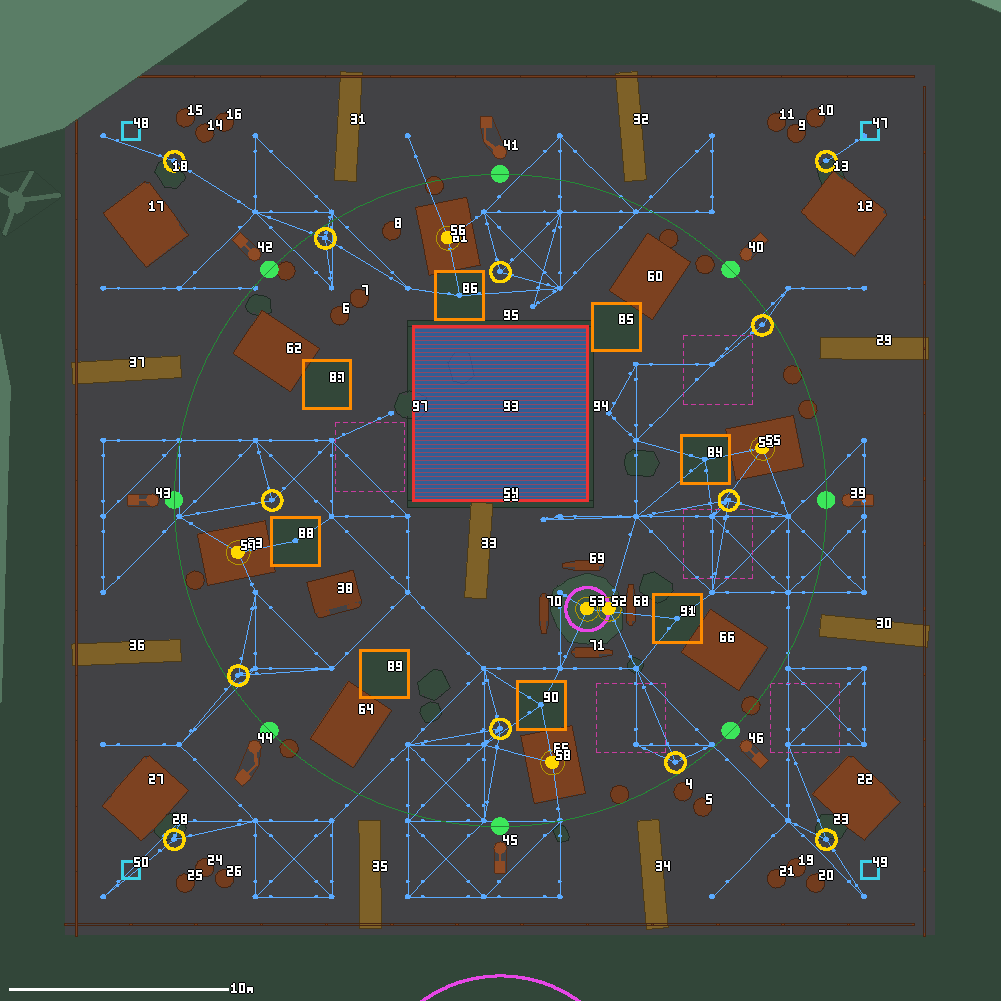
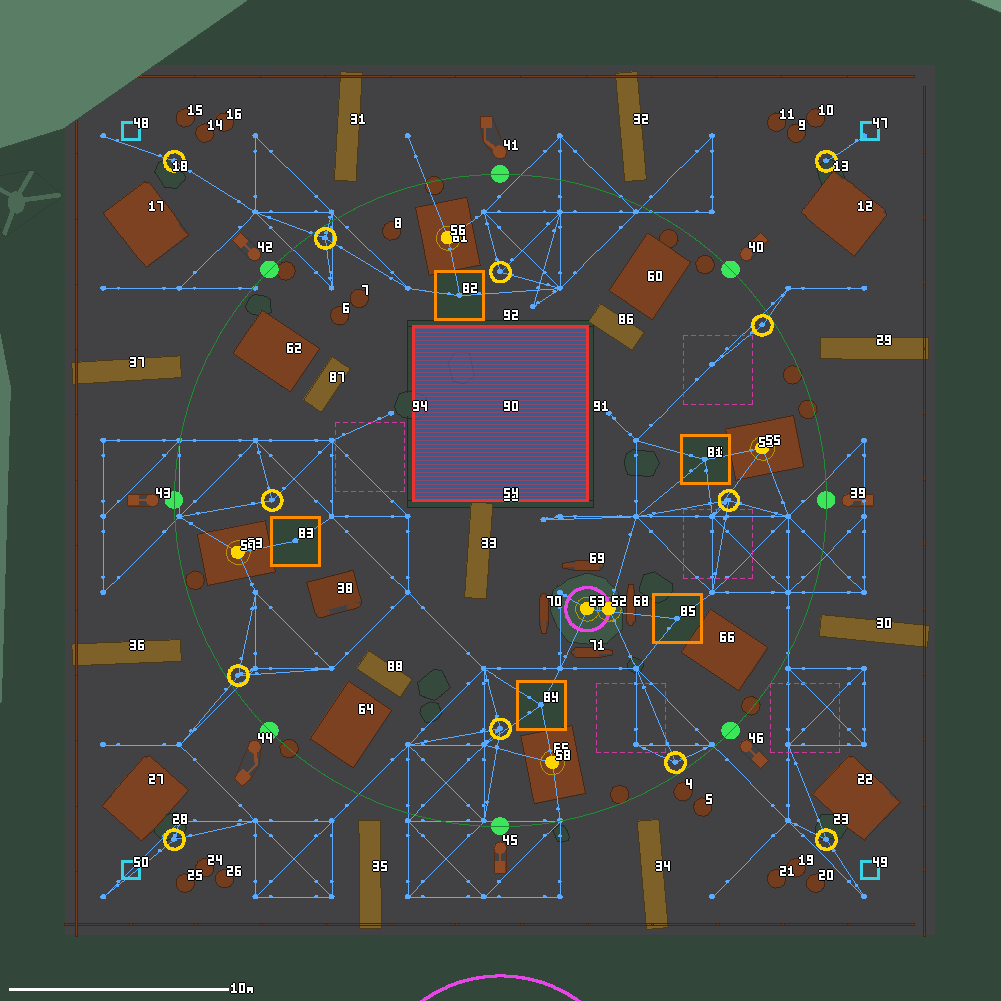
Rusted Park: second design review round, record playtest
Ticket Rush: a dead player drops a +1 ticket (Spawn Prefab on death) so
fights pay off; jump pads only lead to roofs with tickets, crates replace
the rest. Mascot Throne: round 90 -> 60 s with the crown schedule
compressed. Coaster Run: round 60 -> 45 s. Death Carousel: safe centre
noted as open. Add pmgen.act_spawn_prefab; mark actions first built in
code as confirmed by the 2026-10-25 playtest.

Changed region(s): [[0.2787, 0.3407, 0.3716, 0.4336], [0.5884, 0.2787, 0.6503, 0.3716], [0.3407, 0.6503, 0.4336, 0.7123]]

diff --git a/tools/pmgen.py b/tools/pmgen.py
@@ -217,7 +217,7 @@ def _targets(flags: int, guids: list[str] | None):
 ACTION_CLASS = {Action.KILL: "KillAction", Action.CHANGE_HEALTH: "ChangeHealthAction", Action.CHANGE_SCORE: "ChangeScoreAction",
                 Action.SPAWN_EFFECT: "SpawnEffectAction", Action.PLAY_SOUND: "PlaySoundAction", Action.SHOW_MESSAGE: "ShowMessageAction",
                 Action.CHANGE_VELOCITY: "ChangeVelocityAction", Action.MODIFY_PLAYER: "ModifyPlayerAction",
-                Action.WAIT: "WaitAction"}
+                Action.WAIT: "WaitAction", Action.SPAWN_PREFAB: "SpawnPrefabAction"}
 
 
 def _action(type_id: int, flags: int = Targets.SOURCE, targets: list[str] | None = None, **fields) -> tuple[int, dict]:
@@ -266,7 +266,7 @@ def act_set_gravity(vec=(0, -9.81, 0)):
 
 def act_modify_player_speed(multiplier: float, flags=Targets.SOURCE, targets=None):
     """Modify Player Action, режим MovementSpeedMultiplier (0…100): maxSpeed, разгон и торможение игрока × multiplier
-    (SimpleModPlayer.SetMovementSpeedMultiplier); при респауне игра сама возвращает 1. Не проверено."""
+    (SimpleModPlayer.SetMovementSpeedMultiplier); при респауне игра сама возвращает 1. Плейтест 2026-10-25 (общий отчёт пользователя: «всё работает»): Mascot Throne."""
     return _action(Action.MODIFY_PLAYER, flags, targets, m_playerActionType=0, m_movementSpeed=float(multiplier),
                    m_gravity={"x": 0.0, "y": -9.81, "z": 0.0})
 
@@ -287,15 +287,25 @@ def act_play_sound(clip_guid: str | None, volume=1.0, flags=Targets.RECEIVER, ta
                    m_clip={"m_assetGUID": {"serializedGuid": clip_guid or GUID_EMPTY}}, m_volume=float(volume))
 
 
+def act_spawn_prefab(prefab_guids: list[str], flags=Targets.RECEIVER, targets=None, offset=(0, 0, 0)):
+    """Spawn Prefab Action: префаб (случайный из списка) в позиции каждой цели + offset в мировых осях
+    (SpawnPrefabAction, без Parent To Target и без мировой точки). Run mode ServerRelay. Плейтест 2026-10-25 (общий отчёт пользователя: «всё работает»): Ticket Rush, On Death."""
+    def v(p): return {"x": p[0], "y": p[1], "z": p[2]}
+    return _action(Action.SPAWN_PREFAB, flags, targets,
+                   m_prefabs=[{"m_assetGUID": {"serializedGuid": g}} for g in prefab_guids],
+                   m_spawnAtPosition=False, m_position=v((0, 0, 0)), m_rotation=v((0, 0, 0)), m_parentToTarget=False,
+                   m_targetPositionOffset=v(offset), m_targetRotationOffset=v((0, 0, 0)))
+
+
 def act_set_color(color, flags=Targets.ADVANCED, targets: list[str] | None = None):
-    """Цель — трансформ или Prop: меняет tint у Prop на объекте; Logic — у всех дочерних props (SetColorAction). Не проверено."""
+    """Цель — трансформ или Prop: меняет tint у Prop на объекте; Logic — у всех дочерних props (SetColorAction). Плейтест 2026-10-25 (общий отчёт пользователя: «всё работает»): Death Carousel, Coaster Run."""
     return _action(Action.SET_COLOR, flags, targets, m_color={"r": color[0], "g": color[1], "b": color[2], "a": color[3]})
 
 
 def act_play_tween(targets: list[str], kind=Tween.LOCAL_POSITION, end=(0, 0, 0), end_type=TweenValue.OFFSET, seconds=1.0,
                    ease=Ease.LINEAR, start=(0, 0, 0), start_type=TweenValue.CURRENT, axis=(0, 1, 0), degrees=0.0,
                    flags=Targets.ADVANCED):
-    """Одноразовый твин (LeanTween). axis/degrees — только для ROTATE_*_AXIS. Не проверено."""
+    """Одноразовый твин (LeanTween). axis/degrees — только для ROTATE_*_AXIS. Плейтест 2026-10-25 (общий отчёт пользователя: «всё работает»): Death Carousel, Mascot Throne."""
     def v(p): return {"x": p[0], "y": p[1], "z": p[2]}
     return _action(Action.PLAY_TWEEN, flags, targets, m_tweenType=kind, m_easeType=ease, m_time=float(seconds),
                    m_startValueType=start_type, m_startValue=v(start), m_endValueType=end_type, m_endValue=v(end),

diff --git a/packs/abandoned-park/minigames/mascot-throne/build_mod.py b/packs/abandoned-park/minigames/mascot-throne/build_mod.py
@@ -28,11 +28,11 @@ DAIS_Y = 0.15         # верх помоста (throne_dais.obj), ниже ст
 ZONE_R = 2.0
 SEAT_OFF = 2.4        # трон стоит на краю помоста с внешней стороны, лицом к центру арены
 POND_RECT = (14.5, 18.0, -6.0, -1.0)   # x0, x1, z0, z1 кислотной лужи у трона «Пруд» — дыра в полу
-ROUND = 90.0          # Round Duration
-FIRST_HOLD = 17.0     # корона на сцене в начале: от кольца спавна до зоны всем одинаково
+ROUND = 60.0          # Round Duration: правило пака — 60 с (было 90; прожарка 2026-10-25, расписание сжато в 2/3)
+FIRST_HOLD = 11.0     # корона на сцене в начале: от кольца спавна до зоны всем одинаково
 # эскалация: стоянка короны сжимается линейно с HOLD_START до HOLD_END к FINALE (±1 с от сида), в финале — FINALE_HOLD
-HOLD_START, HOLD_END = 16.0, 7.0
-FINALE, FINALE_HOLD = 75.0, 5.0   # с первой стоянки после FINALE ещё и двойная корона (+2 в секунду)
+HOLD_START, HOLD_END = 11.0, 5.0
+FINALE, FINALE_HOLD = 50.0, 4.0   # с первой стоянки после FINALE ещё и двойная корона (+2 в секунду)
 MIN_LAST_STAY = 2.5   # последний переезд не позже, чем за столько секунд до конца раунда
 WARN = 3.0            # предупреждение до переезда: маяк следующего трона, скрип, сообщение
 MOVE = 1.5            # полёт короны к следующему трону

diff --git a/packs/abandoned-park/minigames/coaster-run/build_mod.py b/packs/abandoned-park/minigames/coaster-run/build_mod.py
@@ -63,7 +63,7 @@ PODIUM_X = 42.5
 LOOP_CATCH = (-6.0, 16.0, 76.0, 97.0, 8.3)   # x0, x1, z0, z1, верх
 WARN_BLINK = 0.25     # перед исчезновением 4 смены цвета красный/жёлтый по 0.25 с — ровно секунда            # ложа финишировавших: x 42.5…46 со стенами 2.2 м
 PUNCH_PUSH, PUNCH_LIFT = 5.0, 3.0   # м/с от удара: сбить с балки можно, улететь с полотна — вряд ли
-ROUND = 60.0          # чистый бег ≈ 23 с, с падениями 35–60; кто не добежал — по рубежам
+ROUND = 45.0          # чистый бег ≈ 23 с: первый ждёт в ложе ≤ ~20 с (было 60, прожарка 2026-10-25); кто не добежал — по рубежам
 
 
 def ramp(name, p0, p1, width, thick, **kw):

diff --git a/packs/abandoned-park/minigames/tickets/DESIGN.md b/packs/abandoned-park/minigames/tickets/DESIGN.md
@@ -11,12 +11,12 @@
 | Placement Condition | `Most Points` |
 | Player Type | `Third Person` |
 | Health | `Use Health` вкл., `Health Points` 3, `Show Health Bar` вкл.; `Can Respawn` вкл., `Respawn Time (s)` = 3, `Invulnerable Time (s)` = 2 |
-| Punching | вкл., урон 1 — три удара убивают. Смерть (удары или пруд) отнимает ⌈¼⌉ билетов |
+| Punching | вкл., урон 1 — три удара убивают. Смерть (удары или пруд) отнимает ⌈¼⌉ билетов, на месте смерти выпадает оранжевый билет +1 |
 
 ## Пространство
 
 - Форма: квадрат 40 × 40 м, внутри два кольца — киоски на радиусе 12 м, фонари на 16 м. Пруд-ловушка у центра. Бег по диагонали ≈9.4 с при раунде 60 с.
-- Маршруты: кольцевой между киосками и вертикаль: перед каждым киоском батут, с него — на крышу за билетом. Коридор вдоль забора разбит рядами низких ящиков — их перепрыгивают.
+- Маршруты: кольцевой между киосками и вертикаль: перед киосками с билетом на крыше (0, 2, 4, 6) батут, с него — на крышу; перед остальными — низкий ящик; батут 7 ведёт на крышу карусели. Коридор вдоль забора разбит рядами низких ящиков — их перепрыгивают.
 - Зоны: центр с прудом и каруселью — риск; кольцо киосков — укрытия; угловые сцены у респаунов — тихие точки со своим билетом.
 - Ориентир: колесо обозрения 13.2 м за южным забором (z −28); за ним руины горок. Холмы задника закрывают горизонт со всех сторон, это видно на обоих разрезах.
 - Средний план: 8 киосков, 4 развалившихся киоска в углах, вагонетка, сошедшая с рельсов (стены); ящики 0.7 м (перепрыгиваемые).
@@ -69,7 +69,9 @@
 | `Decor/Corner_0..3` | `Prop Component` | у респаунов: `BrokenBooth` (`booth.obj`, наклон 9°, `Box`), 3 бочки (`Box`), обломки без коллизии |
 | `Decor/Crates_*` (9) | `Prop Component` (Cube 1 × 0.7 × 5 или 4.4, `Box`) | по два ряда поперёк коридора у каждой стороны забора + один у южного края пруда; ниже прыжка |
 | `Decor/DerailedCart` (−7.6, −4.4), `Decor/Barrel_Pond_*` (3), `Decor/Barrel_Booth7_*` (2) | `Prop Component` (`cart.obj` / `barrel.obj`, `Box`) | закрывают прямые линии через центр; вагонетка сдвинута с места батута `JumpPad_5` |
-| `JumpPad_0..7` | `Trigger Component` (`Box` 2.2 × 1.5 × 2.2) + дочерний `Plate` (`Prop Component`, куб 2.2 × 0.2 × 2.2, `Box`) | перед каждым киоском на r 9.6 (седьмой — 9.8, он же к крыше карусели). Подбрасывают на ≈5.1 м, на крышу (2.36 м) доруливают в воздухе |
+| `JumpPad_0, 2, 4, 6, 7` | `Trigger Component` (`Box` 2.2 × 1.5 × 2.2) + дочерний `Plate` (`Prop Component`, куб 2.2 × 0.2 × 2.2, `Box`) | перед киосками с билетом на крыше на r 9.6 и перед киоском 7 на r 9.8 — он ведёт к крыше карусели. Подбрасывают на ≈5.1 м, на крышу (2.36 м) доруливают в воздухе |
+| `PadCrate_1, 3, 5` | `Prop Component` (Cube 1 × 0.7 × 2.4, `Box`) | на месте убранных батутов перед киосками без билета: ниже прыжка, держат кольцо разбитым |
+| `Loot Item` / `Loot Visual` (префабы) | `Item Component` (`Pickup`); визуал — билет ×1.5, оранжевый | выпадает из умершего (`On Death` → `Spawn Prefab`), +1. `Pickup`, чтобы боты его не видели: иначе бот, умерший в пруду, оставлял бы над кислотой приманку для следующего бота |
 | `AI Navigation/*` (104) | `AI Navigation Node` | сетка ботов, генерируется `navgen.py` по карте занятости: решётка 3.5 м по свободному полу + узел в каждой точке билета, на каждом батуте и на каждой крыше. Связи: пол ↔ пол, пол ↔ билет, пол → батут → крыша → пол (батут не транзитный) |
 | `FerrisWheel` | `Prop Component` (`ferris_wheel_stand.obj`) + дочерний `Rotor`: `Prop Component` (`ferris_wheel_rotor.obj`) + `Mover Component` (`Rotation Axis Type` Z, `Rotation Speed` 10) | опоры стоят, крутится только ротор (с 2026-10-24; раньше одна модель крутилась вместе с опорами). За южным забором на земле задника (0, 7.1, −28), без коллизии. На полу (z −17) стояло в 2 м за спиной игрока со спавна (0, −15), и камера оказывалась внутри колеса |
 | `Decor/Lamppost_*` (8) | `Prop Component` (Box) | фонари между киосками на радиусе 16, два покосились |
@@ -87,7 +89,7 @@
 | `Ticket` → `Item Component` | `'On Pickup' Actions` | 1. `Change Score Action` 2. `Spawn Effect Action` 3. `Play Sound Action` | 1: `Add` 1, `Target` = подобравший игрок (точная подпись пункта выпадающего списка — проверить в редакторе). 2: `Sparkles`, `Target` = предмет. 3: `Clip` = `ticket_pickup.wav`, `Volume` 0.8 |
 | `KillVolume` → `Trigger Component` | `On Enter` | 1. `Spawn Effect Action` 2. `Kill/Destroy Action` | 1: `Explosion` на активаторе. 2: `Target` = активатор триггера |
 | `JumpPad_*` → `Trigger Component` | `On Enter` | `Change Player Velocity Action` | `Operation` = `Set`, `Speed` 16, `Direction Type` = `Up`: подъём v²/2g = 16² / (2·25) ≈ 5.1 м |
-| `Mod Settings` → `Event Triggers` | `On Death` | 1. `Change Score Action` 2. `Change Score Action` 3. `Show Message Action` | 1: `Multiply` 3, цель — умерший (`Receiver`). 2: `Divide` 4, умерший. Деление в игре — `(int)(score / 4f)`, поэтому итог ⌊3s/4⌋ = s − ⌈s/4⌉: 1 → 0, 4 → 3, 5 → 3. 3: `Target`, «-1/4 билетов / lost 1/4 of tickets», 2 с. Срабатывает на любую смерть, включая пруд; умерший в первые 2 с после респауна не умирает (`Invulnerable Time`) |
+| `Mod Settings` → `Event Triggers` | `On Death` | 1. `Change Score Action` 2. `Change Score Action` 3. `Show Message Action` 4. `Spawn Prefab Action` | 1: `Multiply` 3, цель — умерший (`Receiver`). 2: `Divide` 4, умерший. Деление в игре — `(int)(score / 4f)`, поэтому итог ⌊3s/4⌋ = s − ⌈s/4⌉: 1 → 0, 4 → 3, 5 → 3. 3: `Target`, «-1/4 билетов / lost 1/4 of tickets», 2 с. 4: `Loot Item` на умершем, `Target Position Offset` (0, 0.9, 0) — предмет кинематический и висит там, где появился. Срабатывает на любую смерть, включая пруд; умерший в первые 2 с после респауна не умирает (`Invulnerable Time`) |
 
 Эскалация (с 2026-10-25): на 40-й секунде `Director` включает спавнер `Jackpot` — большой красный билет +3 у кромки пруда, сообщение и звук. После подбора — следующий через 8–12 с в другой точке у пруда.
 
@@ -102,6 +104,17 @@
 Не изменено: убийство по-прежнему ничего не даёт убийце (редактор не знает, кто ударил), а жертва теряет ¼. Дефицит билетов — единственный рычаг, который сталкивает игроков.
 
 `plan_view` после правки: пробеги 20 / 21 м, пустых клеток 5%, связность 95% — как до неё (геометрия не менялась); сетка ботов 101 узел (было 104: нет узлов крыш без билетов, есть 4 узла большого билета).
+
+## Прожарка 2026-10-25, второй раунд
+
+| Что | Было | Стало | Почему |
+| --- | --- | --- | --- |
+| Добыча при смерти | убийца ничего не получал, ¼ билетов жертвы исчезала | `On Death` → `Spawn Prefab` `Loot Item` (+1) на месте смерти (`LOOT_VALUE`, `LOOT_LIFT`) | три удара не окупались, люди не дрались, дрались только боты. Ценность 1, а не 2: у жертвы с 0–3 билетами отнимается 0–1, и +2 сделали бы выгодной охоту на бедных. Умерший в пруду роняет билет над кислотой — это приманка для людей; боты `Pickup` не видят |
+| Батуты | у всех 8 киосков, билеты только на 4 крышах | батуты у киосков 0, 2, 4, 6 и 7 (`PADS`), у 1, 3, 5 — низкий ящик `PadCrate_*` | батут к пустой крыше обещал награду и не давал её |
+
+`Spawn Prefab Action` собран кодом впервые (`pmgen.act_spawn_prefab`, поля — по `SpawnPrefabAction` из декомпиляции). Действие `ServerRelay`: позиции целей считаются там, где сработало событие, и рассылаются.
+
+`plan_view` после правки: стены 10.9%, низкие 4.1% (было 3.5%), ускорители 1.6% (было 2.5%); пробеги 20 / 21 м, пустых клеток 5%, связность 95%, разброс до целей ×1.59 — как до неё; сетка ботов 100 узлов (без узлов батутов 1, 3, 5).
 
 ## Ассеты
 
@@ -130,6 +143,7 @@
 - `Simple Animator` собран кодом впервые (JSON по образцу Foggy Fall). Если редактор не покажет компонент на `Carousel` или карусель не крутится — сверить JSON со свежей сценой, где аниматор поставлен мышкой.
 - Как вращающиеся лошадки с коллизией `Box` действуют на игрока (толкают, проходят насквозь, дёргают), вики не описывает. Foggy Fall использует движущиеся props с коллизией, но поведение игрока там не проверено.
 - Билет в карусели висит неподвижно, а лошадки проходят через точку спавна на радиусе 2 м: билет стоит в 1 м от стойки, внутри круга. Проверить, что лошадка его не задевает и не подбирает.
+- Добыча: плейтест 2026-10-25 пройден (по словам пользователя — «всё работает»). Что было под вопросом: срабатывает ли `Spawn Prefab` из `On Death` в `ModSettings.json` и где стоит трансформ умершего в этот момент (у тела или у точки, куда его отбросило). Если билет не появляется — проверить в Log Window ошибку «Spawn Prefab action with an empty target» (по коду — пустой `Receiver`). Падение за забор роняет билет на y ≈ −7, где его никто не возьмёт; это безвредно. Билеты в пруду копятся до конца раунда.
 - Боты без оружия бьют кулаком при каждом откате удара (`SimpleModPlayer.GetAIInput`). С HP 3 они могут набивать смерти соседям, пока бегут к билетам, — смотреть в плейтесте.
 - Сообщение о потере билетов на кириллице: шрифт игры должен её поддерживать. Сообщение «Собери билеты!» на старте уже показывалось, но проверить и это.
 
@@ -148,7 +162,7 @@
 
 1. Все 8 спавнов стоят над полом, старт без проваливаний.
 2. Подбор билета: +1 в UI очков, звук, искры, билет исчез.
-3. Через 4–8 с на той же точке появился новый билет.
+3. Через 6–11 с на той же точке появился новый билет.
 4. Пруд виден в дыре пола с бортиком, кислота во всю дыру. Зайти в пруд → смерть, сообщение, респаун через 3 с на углу.
 5. Батут подбрасывает выше крыши киоска; в воздухе можно доруливать на крышу и взять билет. С батута `JumpPad_7` долетается до крыши карусели (≈3.7 м).
 6. На 60-й секунде игра завершилась, места по очкам.
@@ -168,4 +182,6 @@
 20. Mod Validator и Log Window без ошибок про AI Navigation Node.
 21. Большой билет: на 40-й секунде сообщение и звук, у кромки пруда стоит красный билет вдвое крупнее; подбор — +3 и конфетти; следующий появляется в другой точке у пруда через 8–12 с. Боты к нему идут.
 22. Билеты на крышах видно с земли от батута и с кольца спавна.
-23. Ощущения (записать): встречались ли игроки у билетов; разброс очков в конце; сколько смертей от людей, сколько от ботов.
+24. Смерть от ударов: на месте смерти висит оранжевый билет, подбор даёт +1 тому, кто взял. Смерть в пруду: билет висит над кислотой. Боты к оранжевым билетам не идут.
+25. Батуты только перед киосками с билетом на крыше и перед киоском 7; на месте остальных низкие ящики перепрыгиваются.
+23. Ощущения (записать): встречались ли игроки у билетов; стали ли люди охотиться друг на друга ради оранжевого билета; разброс очков в конце; сколько смертей от людей, сколько от ботов.

diff --git a/packs/abandoned-park/minigames/mascot-throne/DESIGN.md b/packs/abandoned-park/minigames/mascot-throne/DESIGN.md
@@ -1,12 +1,12 @@
 # Mascot Throne / Трон маскота
 
-**Цель:** стоять в золотом кольце короны. Корона перелетает между четырьмя тронами. Каждую секунду в кольце — +1 очко всем, кто внутри. Соперников выбивают кулаками. Места — по очкам после 90 с.
+**Цель:** стоять в золотом кольце короны. Корона перелетает между четырьмя тронами. Каждую секунду в кольце — +1 очко всем, кто внутри. Соперников выбивают кулаками. Места — по очкам после 60 с.
 
 | Параметр | Значение |
 | --- | --- |
 | Тип мода | Minigame, собирается `build_mod.py` (`tools/pmgen.py`, шаблон данных `Minimal Third Person`) |
 | Игроки | общий кольцевой спавн на 8, баланс 4–6 |
-| Длительность | 1 раунд, `Round Duration (s)` = 90 |
+| Длительность | 1 раунд, `Round Duration (s)` = 60 (было 90; прожарка 2026-10-25, второй раунд) |
 | End Condition | `Timer` |
 | Placement Condition | `Most Points` |
 | Player Type | `Third Person` |
@@ -14,7 +14,7 @@
 | Punching | вкл.; отброс 6 м/с от бьющего + 4 м/с вверх через `weaponHitTrigger` (схема Death Carousel) |
 | Респаун | `On Respawn` → `Modify Player Action` скорость ×1.5 → `Wait` 3 с → ×1 (v2) |
 
-**Статус:** v1 прошла плейтест 2026-10-25 (по словам пользователя — «работает»). v2 «Динамика» собрана 2026-10-25 и ждёт плейтеста — раздел ниже.
+**Статус:** v1 прошла плейтест 2026-10-25 (по словам пользователя — «работает»). v2 «Динамика» и правки прожарки (60 с) — плейтест 2026-10-25 пройден (по словам пользователя — «всё работает»).
 
 Отличие от PACK.md (заготовка N2): там было «3 трона, активен один, `Set Active`». Собрано иначе — одна корона летает между четырьмя тронами (`Play Tween Animation`). Причина — боты: их цель (`Is AI Goal`) нельзя ни включить, ни выключить, а подвижный узел они видят (подробно в разделе «Боты»).
 
@@ -95,13 +95,13 @@
 
 ## Динамика v2 (2026-10-25)
 
-Цель — чтобы раунд менялся по ходу: к концу темп выше, драка плотнее, у каждого трона свой характер. Собрано в `build_mod.py`, в игре не проверено.
+Цель — чтобы раунд менялся по ходу: к концу темп выше, драка плотнее, у каждого трона свой характер. Собрано в `build_mod.py`; плейтест 2026-10-25 пройден (по словам пользователя — «всё работает»).
 
 | # | Что | Как | Зачем |
 | --- | --- | --- | --- |
-| 1 | Ускорение | стоянка короны линейно с 16 до 7 с к 75-й секунде (±1 с от сида), после 75 с — по 5 с; порядок тронов случайный от сида `mascot-throne-schedule`, подряд не повторяется. Расписание: Сцена 0–17 → Колесо 18.5–32.5 → Тир 34–46 → Пруд 47.5–57 → Колесо 58.5–66.5 → Сцена 68–75 → Пруд 76.5–81.5 → Тир 83–90 | 8 стоянок вместо 6, последние 15 с — три трона |
-| 2 | Сжатие кольца | зона — отдельный ребёнок `Crown/Zone` (триггер + кольцо). На каждой стоянке `Play Tween Animation` `LocalScale` до (0.6, 1, 0.6) за всю стоянку (r 2.0 → 1.2; до 2026-10-25 — 0.58 от r 2.4, то есть 1.4), на уходе — обратно в 1 за время полёта (`easeOutQuad`) | в начале стоянки места хватает всем, к концу — r ≈ 1.4: один-два человека |
-| 3 | Двойная корона | `Crown/Zone/DoubleZone` выключен: второй такой же `Trigger` `On Stay` +1 и красное кольцо чуть шире. Режиссёр включает его на первой стоянке после 75 с (76.5 с) и пишет «Двойная корона!» | +2 в секунду в финале — отстающие могут отыграться |
+| 1 | Ускорение | стоянка короны линейно с 11 до 5 с к 50-й секунде (±1 с от сида), после 50 с — по 4 с (не короче `WARN` + 1); порядок тронов случайный от сида `mascot-throne-schedule`, подряд не повторяется. Расписание (60 с, с 2026-10-25): Сцена 0–11 → Колесо 12.5–22 → Тир 23.5–32 → Пруд 33.5–39.5 → Колесо 41–46 → Сцена 47.5–52 → Пруд 53.5–60. До этого (90 с): стоянки 16 → 7 с к 75 с, 8 стоянок | 7 стоянок за 60 с, темп растёт к концу |
+| 2 | Сжатие кольца | зона — отдельный ребёнок `Crown/Zone` (триггер + кольцо). На каждой стоянке `Play Tween Animation` `LocalScale` до (0.6, 1, 0.6) за всю стоянку (r 2.0 → 1.2; до 2026-10-25 — 0.58 от r 2.4, то есть 1.4), на уходе — обратно в 1 за время полёта (`easeOutQuad`) | в начале стоянки места хватает всем, к концу — r ≈ 1.2: один-два человека |
+| 3 | Двойная корона | `Crown/Zone/DoubleZone` выключен: второй такой же `Trigger` `On Stay` +1 и красное кольцо чуть шире. Режиссёр включает его на первой стоянке после 50 с (53.5 с; при 90 с было 76.5) и пишет «Двойная корона!» | +2 в секунду в финале. Это усилитель финала, а не догонялка: удвоение получает каждый в кольце, а там чаще всего лидер (прожарка 2026-10-25) |
 | 4 | Рывок после респауна | `Mod Settings` → `On Respawn`: `Modify Player Action` (`Movement Speed Multiplier` 1.5) → `Wait` 3 с → `Modify Player Action` 1 | из угла к короне быстрее. По коду игра сама сбрасывает множитель в 1 перед событием респауна (`SimpleModPlayer`) |
 | 5а | «Колесо»: вагонетка | `Traps/Trap_N/Cart`: `Simple Animator` `Move Along Line` 9 м поперёк передней половины помоста (0.2 цикла/с), `Trigger` `Box` 2.4 × 0.7 × 1.5 → `Change Player Velocity` `Add` 8 `Towards Source` + `Add` 4 `Up` + `sweep.wav`. Модель `cart.obj` ×0.6 по высоте без коллизии, рельсы под ней | перепрыгивается (0.7 м); у кресла не достаёт — стоять сзади безопаснее, но там тесно |
 | 5б | «Тир»: мишени | две мишени-маскота навстречу друг другу по двум линиям (9 м, 0.15 и 0.12 цикла/с), `Trigger` 1.2 × 2.2 × 1.2 → `Add` 7 от мишени + 3 вверх | выше прыжка — только уворачиваться |
@@ -131,9 +131,9 @@
 
 ## Чеклист плейтеста v2
 
-1. Стоянки укорачиваются: первые две по ~15 с, к концу раунда корона прыгает каждые ~5 с.
+1. Стоянки укорачиваются: первые две по ~10 с, к концу раунда корона прыгает каждые ~5 с.
 2. Кольцо на стоянке плавно сжимается примерно вдвое, при переезде расправляется. Очки идут только внутри сжатого кольца.
-3. После ~76 с — «Двойная корона!», под золотым кольцом красное, очки +2 в секунду.
+3. После ~53 с — «Двойная корона!», под золотым кольцом красное, очки +2 в секунду.
 4. После респауна первые 3 с бег заметно быстрее, потом обычный.
 5. Боты бегут за короной и успевают за частыми переездами в финале.
 
@@ -148,9 +148,21 @@
 7. Помосты: заходишь без прыжка; на сиденье трона можно запрыгнуть и стоять, это всё ещё зона.
 8. Боты бегут к короне, после переезда разворачиваются к новому трону и не застревают на ящиках и столбах навеса.
 9. Через ящики (0.5–0.6 м) перепрыгивается без разбега.
-10. 90 с — конец, места по очкам.
+10. 90 с — конец, места по очкам (с 2026-10-25 раунд 60 с).
 
 ## Чеклист плейтеста после прожарки (2026-10-25)
 
 1. На прилёте в кольце тесно уже вчетвером, к уходу короны — место на одного-двух.
 2. Ощущения (записать): разброс очков в конце раунда; решили ли всё последние 15 с с двойной короной; дрались ли в первой половине стоянки или стояли вместе.
+
+## Прожарка 2026-10-25, второй раунд
+
+Раунд 90 → 60 с по правилу пака: первые стоянки по 16–17 с были долгим одинаковым началом. Расписание сжато пропорционально (`ROUND`, `FIRST_HOLD`, `HOLD_START`/`HOLD_END`, `FINALE`/`FINALE_HOLD`), сетка и сцена не менялись. `plan_view`: старт ×1.18, сетка ботов 103 узла — как до правки.
+
+Отмечено, но не правилось:
+- «Колесо» и «Тир» без ловушек одинаковы по механике — из четырёх тронов различаются два.
+- Бот останавливается в 1.5 м от узла-цели (`SimpleModPlayer.m_targetReachedDist`) и дальше не подходит. Кольцо к концу стоянки сжимается до r 1.2. Получает ли бот очки в конце стоянки, зависит от радиуса коллайдера игрока — пункт 3 чеклиста ниже.
+
+Чеклист:
+1. Раунд кончается на 60 с; корона успевает 7 стоянок, двойная корона включается на ~53 с.
+2. Боты (записать): стоят ли они внутри сжатого кольца в конце стоянки, растут ли у них очки в последние секунды стоянки.

diff --git a/packs/abandoned-park/minigames/coaster-run/DESIGN.md b/packs/abandoned-park/minigames/coaster-run/DESIGN.md
@@ -1,12 +1,12 @@
 # Coaster Run / Горки без рельс
 
-**Цель:** добежать до финиша по обрушенным американским горкам. Места — по порядку прихода; кто не добежал за 90 с, стоит ниже всех финишировавших, а между собой — по дальности (сколько рубежей прошёл).
+**Цель:** добежать до финиша по обрушенным американским горкам. Места — по порядку прихода; кто не добежал за 45 с, стоит ниже всех финишировавших, а между собой — по дальности (сколько рубежей прошёл).
 
 | Параметр | Значение |
 | --- | --- |
 | Тип мода | Minigame с нуля (`build_mod.py` на `tools/pmgen.py`). Шаблон `Third Person Obstacle Course` — образец приёмов (триггеры-возвраты, финиш), не основа сцены |
 | Игроки | 8 мест на линии старта (один общий спавн `Line`), баланс 4–6 |
-| Длительность | 1 раунд, предохранитель `Round Duration (s)` = 60 (было 90; прожарка 2026-10-25) |
+| Длительность | 1 раунд, предохранитель `Round Duration (s)` = 45 (было 90, потом 60; прожарка 2026-10-25) |
 | End Condition | `Timer` + `FinishMinigame` (как в шаблоне: 9) |
 | Placement Condition | `Finish Order` |
 | Player Type | `Third Person`; бег 6 м/с, прыжок 7 м/с при гравитации 25 → 0.98 м вверх, 3.4 м в длину |
@@ -37,7 +37,7 @@
 
 ## Сборка кодом (2026-10-24)
 
-Мод собирает `build_mod.py` в `WorkshopMods/Coaster Run` (шаблон для света и настроек — `Third Person Obstacle Course`). В редакторе и в игре ещё не открывался. Проверено: `pmscene.py roundtrip` сцены — OK; `ModSettings.json` — `EndConditions` 9, `PlacementCondition` 2, раунд 90 с, удар 0 с отбросом через `weaponHitTrigger`.
+Мод собирает `build_mod.py` в `WorkshopMods/Coaster Run` (шаблон для света и настроек — `Third Person Obstacle Course`). В редакторе и в игре ещё не открывался. Проверено: `pmscene.py roundtrip` сцены — OK; `ModSettings.json` — `EndConditions` 9, `PlacementCondition` 2, раунд 90 с (на 2026-10-24; сейчас 45), удар 0 с отбросом через `weaponHitTrigger`.
 
 `plan_view.py` многоярусные сцены не разбирает: он берёт за пол всё с `WorldGround` на разных высотах, поэтому связность (85%), занятость (0% стен) и пробеги здесь не показательны — стены рва и станции он считает декором. Что из отчёта годится:
 
@@ -51,11 +51,14 @@
 
 ## Прожарка 2026-10-25
 
+Статус: плейтест 2026-10-25 пройден (по словам пользователя — «всё работает»), включая 45 с.
+
+
 | Что | Было | Стало | Почему |
 | --- | --- | --- | --- |
 | Падение в ров S2 | ров, пешком по лестнице на станцию | `Fall_S2a` (z 8–24) → `CP_Station` (z 6), `Fall_S2b` (z 24–39) → `CP_S2` на левой балке у z 20 | пешком выходило до ~31 м назад и подъём — 8–10 с, дороже падения с петли (2–4 с), и как раз там, где восемь человек толкаются на трёх балках. Лестница осталась: сбитый вбок может упасть на её верх выше зоны и выйти пешком |
 | Правая дорожка | разрыв 3.0 м (запас 0.4 м) без награды; левая (2 × 2.4 м, запас 1 м) лучше во всём | правая балка продолжается обходом вагонеток `Bypass_0/1` (x 2.6, z 40–47.6 и 50–60, разрыв 2.4 м); полотно S3 сдвинуто влево (x −3.9…1.3, `BED_X` −1.3), вагонетки на x −3.05 / −1.3 / 0.45 | риск правой окупается: на обходе нет вагонеток, но он шириной в балку и над кислотой. С полотна на обход тоже можно перешагнуть (зазор 0.65 м) — правая просто ведёт туда напрямую. `Gate_S3` расширен на обход |
-| Длина | 90 с | 60 с | чистый бег ≈ 23 с; не добежавшие ранжируются по рубежам |
+| Длина | 90 с | 60 с, во втором раунде прожарки — 45 с | чистый бег ≈ 23 с; не добежавшие ранжируются по рубежам. При 60 с первый финишировавший до ~35 с стоял в ложе без дела; при 45 с — до ~20 с |
 
 Не изменено: спуск с барьерами и обязательный батут — без решений. Вариант на будущее: батут как срезка рядом с длинным безопасным путём.
 
@@ -113,16 +116,16 @@
 ## Чеклист плейтеста
 
 1. Старт: все на станции в линию, сообщение «Рельсов нет. Беги!».
-2. S2: с балки падаешь в ров, не умираешь; по лестнице справа возвращаешься на станцию. Перескок между дорожками работает. Средняя: пролёт скрипит, секунду мигает красным/жёлтым и пропадает на 2.5 с.
+2. S2: с балки падаешь в ров, не умираешь; тебя переносит на станцию или на левую балку (п. 11). Перескок между дорожками работает. Средняя: пролёт скрипит, секунду мигает красным/жёлтым и пропадает на 2.5 с.
 3. S3: вагонетка сбивает, оглушает и отбрасывает; упавший в кислоту появляется в начале S3 лицом вперёд, с искрами.
 4. Подъём проходится бегом, на нём толкаются.
 5. Петля: плиты допрыгиваются, качающиеся возят стоящего; падение с любой плиты, в том числе с последней и в прыжке к CP5, → вершина подъёма, а не CP5. Ржавые плиты мигают перед исчезновением.
 6. Спуск: барьеры перепрыгиваются; батут перебрасывает через разрыв на финиш, без батута не допрыгнуть.
 7. Финиш: надпись «… finished», конфетти, звук, игрока переносит в ложу, выйти из неё нельзя.
-8. Все финишировали → конец раунда; не добежавшие к 90 с — ниже финишировавших, между собой по дальности.
+8. Все финишировали → конец раунда; не добежавшие к 45 с — ниже финишировавших, между собой по дальности.
 9. Боты доходят хотя бы до петли.
 10. Удар отталкивает и не убивает.
 11. Падение в ров в первой половине S2 → на станцию, во второй → на левую балку у z 20 лицом вперёд; не соскальзываешь с балки сразу после переноса.
 12. Правая балка переходит в обход вагонеток; обход проходится с одним прыжком 2.4 м; падение с него → начало S3. С конца обхода шаг влево на подъём.
 13. Вагонетки по-прежнему ездят по полотну и не задевают обход.
-14. Ощущения (записать): какую дорожку выбирали люди и почему; во сколько финишировал первый и сколько ждал последний.
+14. Ощущения (записать): какую дорожку выбирали люди и почему; во сколько финишировал первый и сколько ждал последний; успевают ли за 45 с добежать хотя бы двое из четырёх (если нет — вернуть 55–60 с).

diff --git a/packs/abandoned-park/PACK.md b/packs/abandoned-park/PACK.md
@@ -32,9 +32,9 @@
 
 | # | Slug | Название (EN / RU) | Тип | Основа | Статус |
 | --- | --- | --- | --- | --- | --- |
-| 1 | `tickets` | Ticket Rush / Билетики | сбор очков | с нуля, собирается `build_mod.py` | плейтест пройден 2026-10-21; правки прожарки 2026-10-25 (8 билетов вместо 14, большой билет +3 с 40 с) собраны, ждут плейтеста |
-| 2 | `death-carousel` | Death Carousel / Карусель смерти | выживание | с нуля, собирается `build_mod.py` | собрано 2026-10-22; прожарка 2026-10-25: `Last Man Standing` вместо очков, 60 с, без обломков — ждёт плейтеста |
-| 3 | `coaster-run` | Coaster Run / Горки без рельс | гонка | с нуля, собирается `build_mod.py` (приёмы шаблона Third Person Obstacle Course); нижний ярус-ров вместо смерти, телепорт на начало секции над прудом, ржавые пролёты по `Timer` | собрано 2026-10-24; прожарка 2026-10-25: ров — телепорт, правая дорожка ведёт в обход вагонеток, 60 с — ждёт плейтеста |
+| 1 | `tickets` | Ticket Rush / Билетики | сбор очков | с нуля, собирается `build_mod.py` | плейтест пройден 2026-10-21; правки прожарки 2026-10-25 (8 билетов вместо 14, большой билет +3 с 40 с; второй раунд: билет +1 выпадает из умершего, батуты только к крышам с билетом) — плейтест 2026-10-25 пройден (по словам пользователя — «всё работает») |
+| 2 | `death-carousel` | Death Carousel / Карусель смерти | выживание | с нуля, собирается `build_mod.py` | собрано 2026-10-22; прожарка 2026-10-25: `Last Man Standing` вместо очков, 60 с, без обломков — плейтест 2026-10-25 пройден (по словам пользователя — «всё работает»); безопасный центр (толчок метлы у колонны) ещё не решён |
+| 3 | `coaster-run` | Coaster Run / Горки без рельс | гонка | с нуля, собирается `build_mod.py` (приёмы шаблона Third Person Obstacle Course); нижний ярус-ров вместо смерти, телепорт на начало секции над прудом, ржавые пролёты по `Timer` | собрано 2026-10-24; прожарка 2026-10-25: ров — телепорт, правая дорожка ведёт в обход вагонеток, 45 с — плейтест 2026-10-25 пройден (по словам пользователя — «всё работает») |
 | 4 | `mascot-range` | Mascot Range / Тир | стрельба по целям | шаблон Third Person Shooter; цели — `Trigger` `On Hit` → `Change Score` активатору, попадание по игроку отнимает очки у жертвы | идея |
 | 5 | `ferris-hold` | Ferris Hold / Колесо | выживание на вертикальном колесе | с нуля; кабинки на `Simple Animator` `Custom Animation` (две синусоиды), провод вверху — `On Stay` → `Change Health`; самая дорогая | идея |
 | 7 | `bumper-cars` | Bumper Cars / Автодром | арена-толкучка | шаблон Top Down Shooter; отброс по схеме Death Carousel, сжимающийся пол; только после её плейтеста | идея |
@@ -49,7 +49,7 @@
 | # | Slug | Название (EN / RU) | Тип | Основа | Что проверить до спеки |
 | --- | --- | --- | --- | --- | --- |
 | N1 | `tilt-house` | Tilt House / Кривой дом | выживание | шаблон Empty; каждые 10 с `Set Gravity Action` наклоняет гравитацию по расписанию (`Round Start` → `Wait` → `Set Gravity`), предупреждение `Show Message` + `creak.wav`, провалы у стен | поведение контроллера при негоризонтальной гравитации |
-| N2 | `mascot-throne` | Mascot Throne / Трон маскота | захват зоны | **плейтест пройден 2026-10-25; «Динамика v2» (ускорение, сжатие кольца, двойная корона, рывок после респауна) собрана, ждёт плейтеста; ловушки у тронов отключены флагом `TRAPS`; прожарка 2026-10-25: кольцо r 2.0 → 1.2 вместо 2.4 → 1.4** (`minigames/mascot-throne/`). С нуля, `build_mod.py`; 4 трона, между ними перелетает одна корона (`Play Tween Animation`) с зоной `Trigger` `On Stay` 1 с → `Change Score` `Add` 1 и узлом-целью ботов — вместо `Set Active` трёх тронов, потому что цель ботов не переключается | проверено по коду: `On Stay` даёт очко каждому в зоне |
+| N2 | `mascot-throne` | Mascot Throne / Трон маскота | захват зоны | **плейтест пройден 2026-10-25; «Динамика v2» (ускорение, сжатие кольца, двойная корона, рывок после респауна) — плейтест 2026-10-25 пройден (по словам пользователя — «всё работает»); ловушки у тронов отключены флагом `TRAPS`; прожарка 2026-10-25: кольцо r 2.0 → 1.2 вместо 2.4 → 1.4, раунд 60 с вместо 90** (`minigames/mascot-throne/`). С нуля, `build_mod.py`; 4 трона, между ними перелетает одна корона (`Play Tween Animation`) с зоной `Trigger` `On Stay` 1 с → `Change Score` `Add` 1 и узлом-целью ботов — вместо `Set Active` трёх тронов, потому что цель ботов не переключается | проверено по коду: `On Stay` даёт очко каждому в зоне |
 | N3 | `balloon-pop` | Balloon Pop / Шарики | реакция, очки | шаблон Minimal Third Person; шары `Spawner` + `Mover` вверх + `Trigger` `On Hit` → `Change Score`, `Kill/Destroy`; крыши и батуты из Ticket Rush | `On Hit` кулаком по движущемуся триггеру |
 | N4 | `cannonball` | Human Cannonball / Человек-ядро | меткость, 3 раунда | шаблон Empty; выстрел `Change Player Velocity` `Set` 25 вверх-вперёд, кольца мишени `Trigger` `On Enter` + `One Use Per Player` → 1/3/5 очков, `Rounds` 3 | произвольный вектор у `Change Player Velocity`; суммируются ли очки между раундами |
 | N5 | `searchlights` | Searchlights / Прожекторы | выживание-стелс | шаблон Empty; вышки с `Weapon Component` `Beam` на вращающемся `Mover`, укрытия-киоски, Lighting Night | стреляет ли `Weapon Component` вдоль оси или наводится; образец — `Pummel Prison` в `InbuiltMods` |

diff --git a/packs/abandoned-park/minigames/death-carousel/DESIGN.md b/packs/abandoned-park/minigames/death-carousel/DESIGN.md
@@ -80,7 +80,7 @@
 
 ## Динамика v2 (2026-10-22)
 
-Цель — убрать мёртвые первые 20 с, безопасный пятак у колонны и монотонную скакалку через брусья. Собрано в `build_mod.py`, в игре не проверено.
+Цель — убрать мёртвые первые 20 с, безопасный пятак у колонны и монотонную скакалку через брусья. Собрано в `build_mod.py`; плейтест 2026-10-25 пройден (по словам пользователя — «всё работает») вместе с правками прожарки.
 
 | # | Что | Как | Зачем |
 | --- | --- | --- | --- |
@@ -108,6 +108,8 @@
 | Невесомость | 60 с | 42 с, последняя фаза | вдвое удлиняет полёт от удара (0.36 → 0.72 с, отлёт ~2.5 → ~5 м): на диске r 7 почти любой удар смертелен. Раунд после неё, скорее всего, кончится за секунды — это и есть финал |
 
 Открыто: прыжок на вращающемся полу. При 45 °/с край r 9 едет ≈ 7 м/с при беге 6 м/с; если контроллер в воздухе не сохраняет скорость платформы, прыжок через метлу сдвигает игрока относительно пола на ~4 м. Проверка — пункт 3а чеклиста; если подтвердится, ограничить `SPIN_RAMP` 25–30 °/с.
+
+Отложено (прожарка 2026-10-25, второй раунд): центр безопасен. Метла у колонны отбрасывает примерно на 3 м и с карусели не скидывает, а дожившие до 60 с делят место — выгодно стоять у колонны и прыгать через брусья. Решение — одинаковый толчок по всей длине бруса вместо сильного у края — принимать только после пунктов 1 и 3а чеклиста: пока не проверено, возит ли пол игрока и куда сносит прыжок, числа толчка крутить вслепую. Там же записать, не решают ли финал под невесомостью боты, которые бьют на каждом откате удара.
 
 Порядок осыпания секторов одинаков в каждом матче: сид `Wait` сериализуется вместе с событием (`scene-format.md`, «Случайность в действиях»).
 

diff --git a/.claude/skills/pummel-party-mod-editor/reference/scene-format.md b/.claude/skills/pummel-party-mod-editor/reference/scene-format.md
@@ -112,4 +112,6 @@ LowPolyCube `cfc9faf9-3852-4dbe-803b-32cec4c94139`, LowPolyPlane `e314a70b-98f2-
 
 ## Статус проверки в редакторе
 
+2026-10-25: плейтест четырёх модов Rusted Park после второго раунда прожарки — по общему отчёту пользователя «всё работает». Впервые собранные кодом и теперь подтверждённые: `Spawn Prefab` в `onDeathTrigger` (`pmgen.act_spawn_prefab`, Ticket Rush — билет выпадает из умершего), `Modify Player` с `Wait` в `onRespawnTrigger` (Mascot Throne), `Play Tween Animation` и `Set Color` (Death Carousel, Mascot Throne, Coaster Run), `Simple Animator`, `Match Transform` на игроке. Отдельные пункты чеклистов (ощущения, поведение ботов) пользователь построчно не описывал.
+
 2026-10-21: сгенерированный `Ticket Rush Gen` открылся в Mod Editor, Hierarchy показывает все объекты (World, Ticket Spawners, Director), Player.log без ошибок. Значит наши `.pmeta`, префабы `.pfab`, JSON триггеров с пустым `references` и ModSettings редактор принимает. По скриншоту редактора: Log 0 warnings / 0 errors, материалы из `m_shaderData` работают (текстуры на киосках и полу видны), триггеры и спавнеры отображаются гизмо. Плейтест 2026-10-21 (1 игрок + 3 бота, полный раунд до экрана результатов): в Player.log ни исключений, ни ошибок загрузки; `Running Round Start Logic Trigger` — триггер ModLogic выполнился; звук подбора проигрывался. По словам пользователя в игре работало всё из чеклиста: подбор билетов с очками, респаун билетов спавнером, kill-зона пруда с респауном, jump pad (`ChangeVelocity` Up/Set), таймер и места по очкам. Генератор можно считать рабочим для компонентов Prop, Trigger, Logic, PlayerSpawn, Spawner, Item, Water, Mover и материалов. `ModSimpleAnimator` (карусель в Ticket Rush, 2026-10-22) собран, но в редакторе и в игре ещё не проверен.
